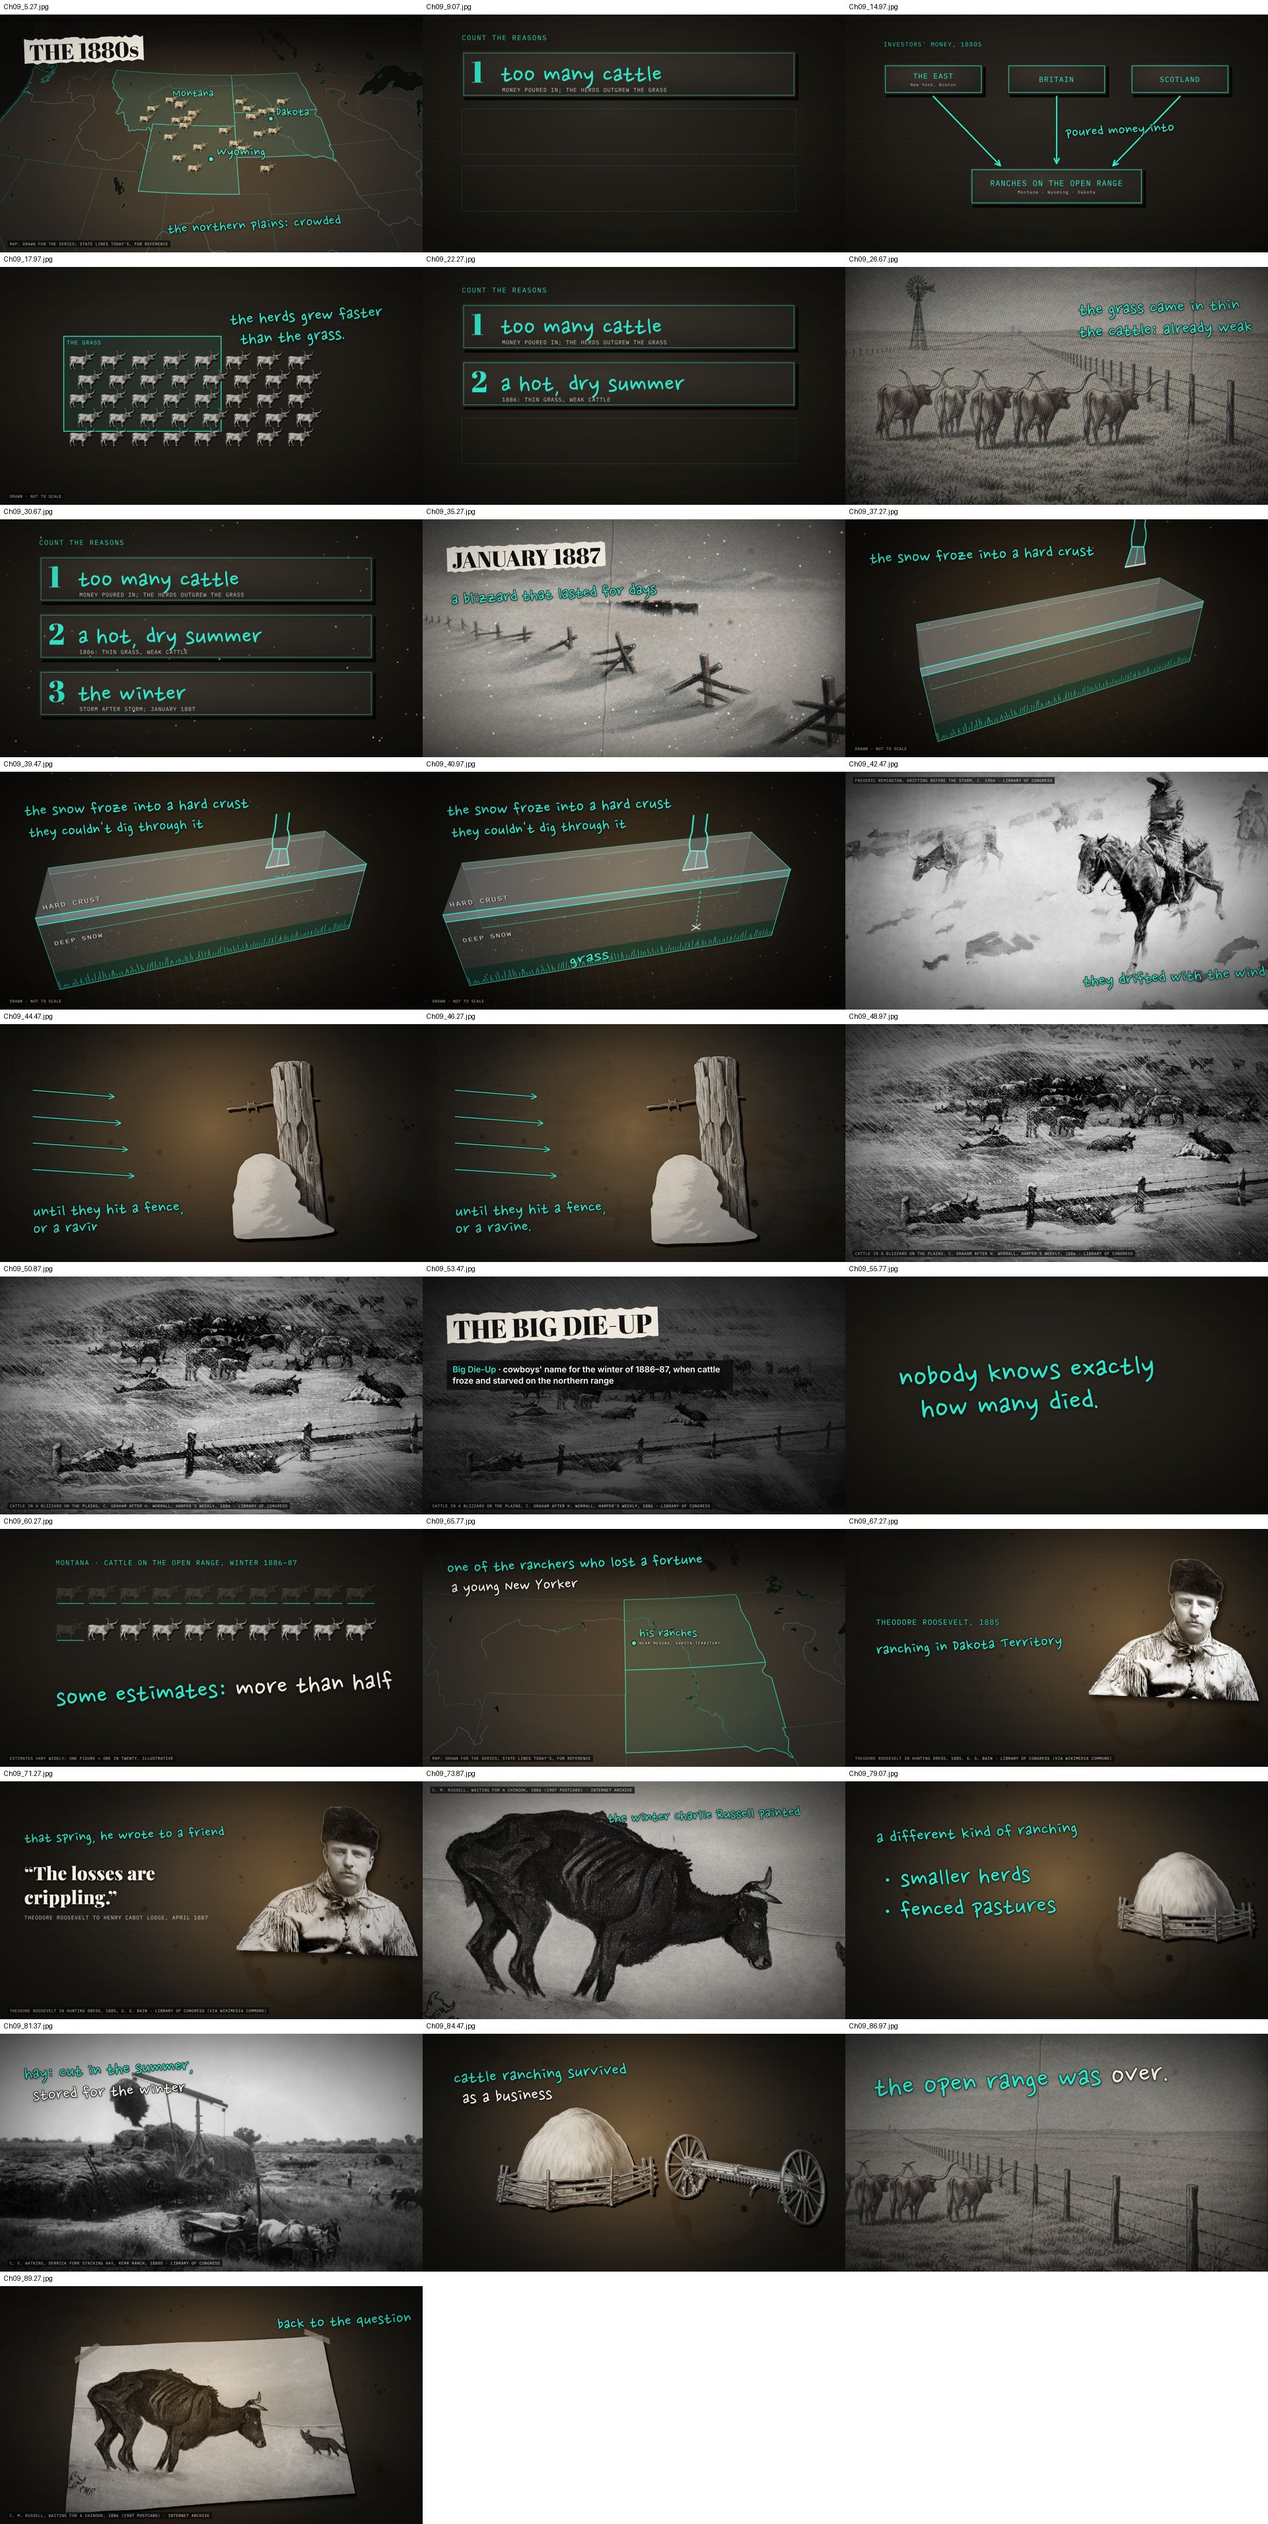
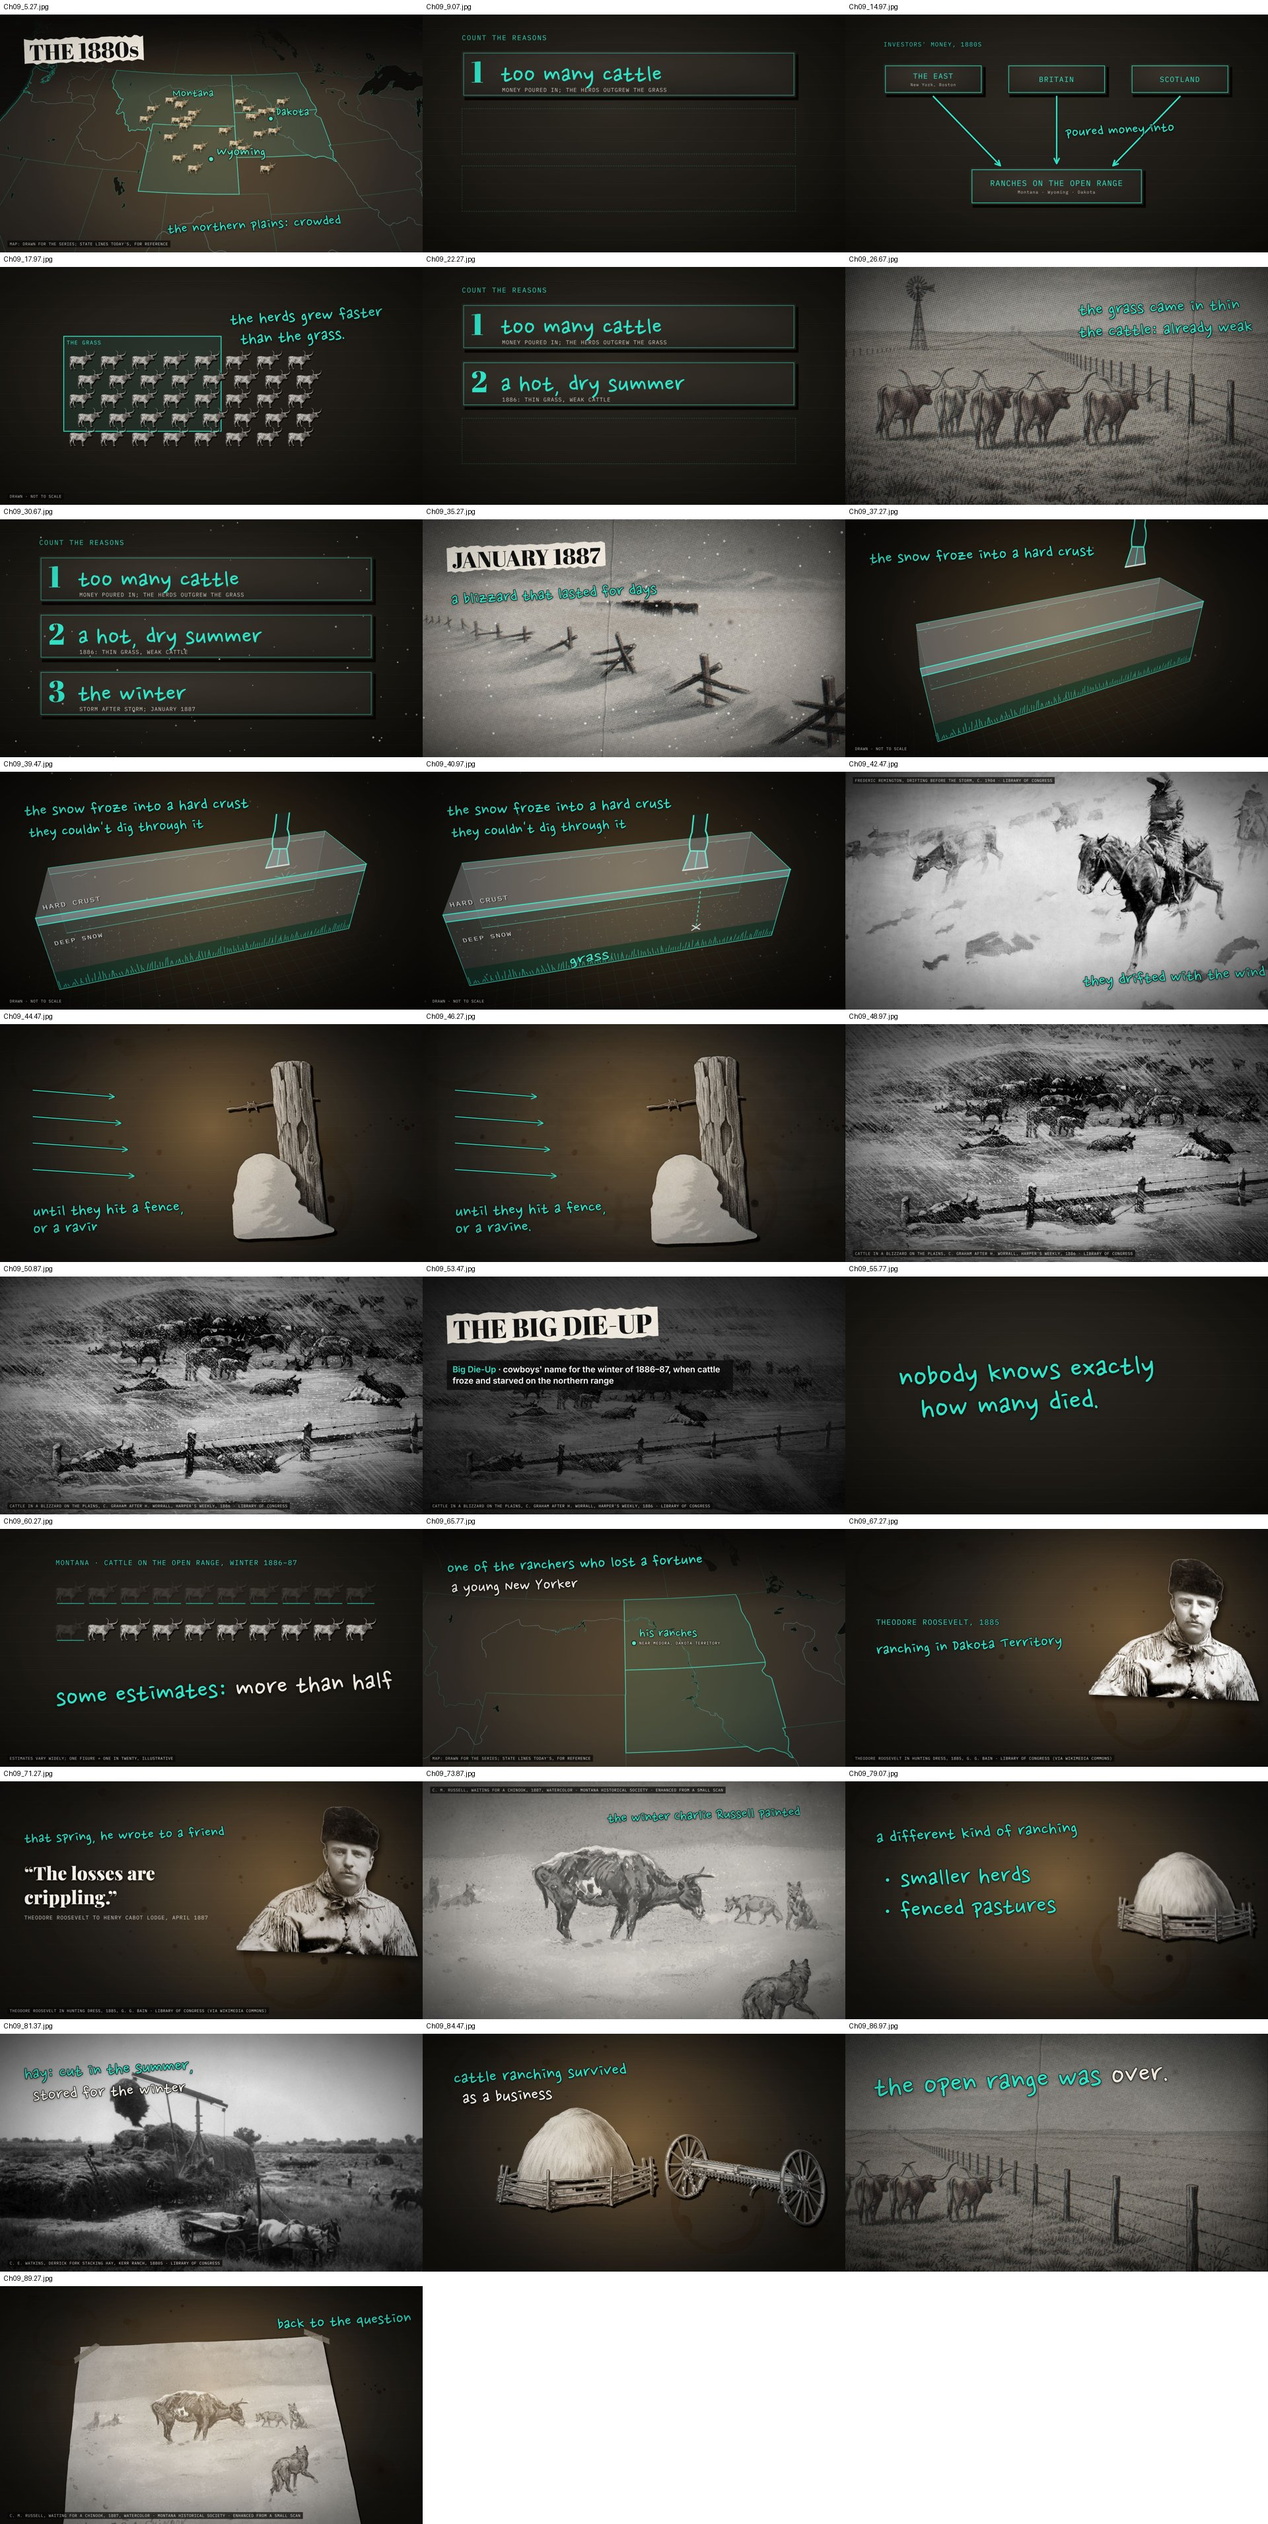
Ep 2: ch01 on the restored 1887 original (five wolves looped on 'wolves', hip push retuned) (checkpoint)
Claude-Session: https://claude.ai/code/session_01JXLXPAtDHdTb8v1nek5PYh

Changed region(s): [[0.3125, 0.7165, 0.6875, 0.8099], [0.0312, 0.9346, 0.2812, 1.0]]

diff --git a/projects/American_West/ep2/src/ch/Ch01.tsx b/projects/American_West/ep2/src/ch/Ch01.tsx
@@ -31,22 +31,31 @@ const END = Math.ceil(N.duration * 30) + 40;
 export const CH01_FRAMES = END + INTRO_FRAMES + TITLE_FRAMES;
 
 /**
- * THE PAINTING, in one place so it can be swapped. Every painting shot reads from P: its file, size, tag, steer mask, and the
+ * THE PAINTING, in one place so it can be swapped. Every painting shot reads from P: its file, size, tag, steer mask, look, and the
  * steer / head / hip / wolves / sky as fractions of the picture (x, y in 0..1), so the cameras follow the composition.
- * Now: Russell's 1907 repainting (from a postcard; one coyote, no lettering). Planned: the 1886–87 original (several wolves at
- * upper left, right and lower right; Russell's lettering), once a usable scan is in; set P = ORIGINAL_1887 and give it a mask.
+ * Now: Russell's 1887 original (Montana Historical Society), enlarged from a small scan (user-approved). Its small caption lettering
+ * under the title was guessed by the enlargement, so no shot zooms on the bottom strip (y > 0.88). The 1907 repainting is kept below.
  */
-type Painting = {src: string; size: [number, number]; tag: string; mask?: MaskRef; steer: Pt; head: Pt; hip: Pt; wolves: Pt[]; sky: Pt};
 type Pt = [number, number];
+type Painting = {src: string; size: [number, number]; tag: string; mask?: MaskRef; steer: Pt; head: Pt; hip: Pt; wolves: Pt[]; sky: Pt;
+  /** B&W treatment, coral strength, how much the steer is lifted under its mask, the steer close-up (fraction of the width shown),
+   *  the hip push (from, to) and loop radius (fraction of the width), and the wolf for the cut-in. */
+  bw: string; tint: number; lift: number; steerFrac: number; hipFrac: [number, number]; hipR: number; heroWolf: number};
 const REPAINT_1907: Painting = {
   src: 'img/ch01/b_chinook_painting.jpg', size: [4000, 2468], tag: 'C. M. Russell, Waiting for a Chinook (his 1907 version, on a postcard) · Internet Archive',
   mask: M1.steer, steer: [0.42, 0.5], head: [0.7, 0.62], hip: [0.118, 0.29], wolves: [[0.86, 0.668], [0.99, 0.656]], sky: [0.66, 0.36],
+  bw: 'grayscale(1) sepia(0.12) contrast(1.15) brightness(0.98)', tint: 0.26, lift: 0.55, steerFrac: 0.8, hipFrac: [0.5, 0.33], hipR: 0.045, heroWolf: 0,
 };
 export const ORIGINAL_1887: Painting = {
-  src: 'img/ch01/waiting_for_a_chinook_original_lowres.jpg', size: [406, 289], tag: 'C. M. Russell, Waiting for a Chinook, 1886–87, watercolor · Montana Historical Society via Wikimedia Commons',
-  steer: [0.47, 0.42], head: [0.61, 0.4], hip: [0.34, 0.35], wolves: [[0.11, 0.43], [0.17, 0.43], [0.73, 0.47], [0.815, 0.47], [0.78, 0.71]], sky: [0.5, 0.14],
+  src: 'img/ch01/chinook_1887_restored.jpg', size: [4000, 2847],
+  tag: 'C. M. Russell, Waiting for a Chinook, 1887, watercolor · Montana Historical Society · enhanced from a small scan',
+  mask: M1.steer1887, steer: [0.46, 0.43], head: [0.62, 0.43], hip: [0.32, 0.37],
+  // two far upper left, two right of the steer's head, one lower right trotting toward us
+  wolves: [[0.075, 0.43], [0.145, 0.43], [0.74, 0.47], [0.835, 0.47], [0.79, 0.7]], sky: [0.5, 0.13],
+  bw: 'grayscale(1) sepia(0.12) contrast(1.32) brightness(0.92)', tint: 0.34, lift: 0.18, steerFrac: 0.6, hipFrac: [0.42, 0.24], hipR: 0.034, heroWolf: 4,
 };
-const P: Painting = REPAINT_1907;
+const P: Painting = ORIGINAL_1887;
+void REPAINT_1907;
 const PAINT = P.src;
 const PSZ = P.size;
 const PTAG = P.tag;
@@ -57,15 +66,15 @@ const zw = (frac: number) => 1920 / (PSZ[0] * frac);
 /** Camera key on the painting: [frame, point, fraction of the width shown]. */
 const pk = (f: number, p: Pt, frac: number): [number, number, number, number] => [f, ...px(p), zw(frac)];
 const MID: Pt = [0.5, 0.5];
-/** The coral on the steer stays light (it is nearly black in B&W): the trace carries the subject. */
-const STEER_TINT = 0.26;
+/** The coral on the steer stays light: the trace carries the subject. */
+const STEER_TINT = P.tint;
 const RUSS = 'img/ch01/b_russell_c1900.jpg';
 const RSZ: [number, number] = [1920, 2673];
 const RTAG = 'Charles M. Russell, c. 1900, photographer unknown · Wikimedia Commons';
 const COWTOWN = 'img/props/L2_cowtown.jpg';
 const LSZ: [number, number] = [1920, 1080];
 /** The painting in black and white, a little warm (the series' archive look). */
-const PBW = 'grayscale(1) sepia(0.12) contrast(1.15) brightness(0.98)';
+const PBW = P.bw;
 const MAPTAG = 'Map: Natural Earth outlines (today\'s state lines for reference)';
 
 /**
@@ -78,7 +87,7 @@ const SteerLift: React.FC<{S: (x: number, y: number) => [number, number]; s: num
   const [l, t] = S(0, 0);
   const m = P.mask.alpha;
   return <div style={{position: 'absolute', left: l, top: t, width: PSZ[0] * s, height: PSZ[1] * s, background: '#8a8a8a', mixBlendMode: 'screen',
-    opacity: 0.55 * interpolate(g, [a, a + 5], [0, 1], clamp), WebkitMaskImage: `url(${staticFile(m)})`, WebkitMaskSize: '100% 100%', maskImage: `url(${staticFile(m)})`, maskSize: '100% 100%'} as React.CSSProperties} />;
+    opacity: P.lift * interpolate(g, [a, a + 5], [0, 1], clamp), WebkitMaskImage: `url(${staticFile(m)})`, WebkitMaskSize: '100% 100%', maskImage: `url(${staticFile(m)})`, maskSize: '100% 100%'} as React.CSSProperties} />;
 };
 
 /** The painting on the desk as a torn print. */
@@ -205,7 +214,7 @@ const LookSteer: React.FC = () => {
   const a = at('Look at it') - 1;
   const b = at('Look at the hip') - 1;
   return (
-    <Pic src={PAINT} size={PSZ} k={[pk(a, MID, 0.96), pk(b, P.steer, 0.8)]} filter={PBW} tag={PTAG} tagY={1026} mask={P.mask} tintAt={at('One steer')} tint={STEER_TINT} traceAt={at('One steer') + 2}>
+    <Pic src={PAINT} size={PSZ} k={[pk(a, MID, 0.96), pk(b, P.steer, P.steerFrac)]} filter={PBW} tag={PTAG} tagY={1026} mask={P.mask} tintAt={at('One steer')} tint={STEER_TINT} traceAt={at('One steer') + 2}>
     {(S, sc) => <><SteerLift S={S} s={sc} at={at('One steer')} /><Note text="one steer, alone" x={1240} y={180} size={60} rot={-3} at={at('alone') - 2} /></>}
     </Pic>
   );
@@ -216,10 +225,10 @@ const Hips: React.FC = () => {
   const a = at('Look at the hip') - 1;
   const b = at('Now look behind') - 1;
   return (
-    <Pic src={PAINT} size={PSZ} k={[pk(a, [P.hip[0] + 0.1, P.hip[1] + 0.08], 0.5), pk(b, P.hip, 0.33)]} filter={PBW} mask={P.mask} tintAt={-99} tint={STEER_TINT * 0.8}>
+    <Pic src={PAINT} size={PSZ} k={[pk(a, [P.hip[0] + 0.1, P.hip[1] + 0.06], P.hipFrac[0]), pk(b, P.hip, P.hipFrac[1])]} filter={PBW} mask={P.mask} tintAt={-99} tint={STEER_TINT * 0.8}>
       {(S, sc) => {
         const [hx, hy] = S(...px(P.hip));
-        const r = PSZ[0] * sc * 0.045;
+        const r = PSZ[0] * sc * P.hipR;
         return <>
           <SteerLift S={S} s={sc} at={-99} />
           <Loop cx={hx} cy={hy} rx={r} ry={r * 0.73} at={at('hip bones') - 2} seed={7} tilt={-8} width={7} />
@@ -242,15 +251,15 @@ const Wolves: React.FC = () => {
   const w = at('wolves');
   const b = at('Russell called') - 1;
   return (
-    <Pic src={PAINT} size={PSZ} k={[pk(a, P.head, 0.6), pk(w - 4, WOLF_C, WOLF_FRAC), pk(b, WOLF_C, WOLF_FRAC * 0.96)]} filter={PBW} tag={PTAG} tagY={1026}>
+    <Pic src={PAINT} size={PSZ} k={[pk(a, P.head, 0.6), pk(w - 4, WOLF_C, WOLF_FRAC), pk(at('waiting') - 4, WOLF_C, WOLF_FRAC * 0.97), pk(b, P.wolves[P.heroWolf], 0.4)]} filter={PBW} tag={PTAG} tagY={1026}>
       {(S, sc) => <>
         {P.wolves.map((p, i) => {
           const [x, y] = S(...px(p));
           const r = PSZ[0] * sc * 0.05;
           return <Loop key={i} cx={Math.min(1850, Math.max(70, x))} cy={y} rx={r} ry={r * 0.75} at={w - 2 + i * 3} seed={11 + i} tilt={i % 2 ? 6 : -6} width={7} />;
         })}
-        <Note text="wolves" x={1240} y={120} size={78} rot={-4} at={w} />
-        <Note text="waiting" x={1300} y={880} size={62} rot={-3} at={at('waiting') - 2} color="#ffffff" />
+        <Note text="wolves" x={820} y={90} size={78} rot={-4} at={w} />
+        <Note text="waiting" x={140} y={860} size={66} rot={-3} at={at('waiting') - 2} color="#ffffff" />
       </>}
     </Pic>
   );
@@ -391,7 +400,7 @@ const QuestionDesk: React.FC<{second?: boolean}> = ({second}) => {
 const BackToSteer: React.FC = () => {
   const a = at("And we'll") - 1;
   return (
-    <Pic src={PAINT} size={PSZ} k={[pk(a, P.steer, 0.8), pk(a + 60, [P.steer[0] - 0.002, P.steer[1]], 0.795)]} filter={PBW} tag={PTAG} tagY={24} mask={P.mask} tintAt={a} tint={STEER_TINT} traceAt={a + 3}>
+    <Pic src={PAINT} size={PSZ} k={[pk(a, P.steer, P.steerFrac), pk(a + 60, [P.steer[0] - 0.002, P.steer[1]], P.steerFrac * 0.99)]} filter={PBW} tag={PTAG} tagY={24} mask={P.mask} tintAt={a} tint={STEER_TINT} traceAt={a + 3}>
       {(S, sc) => <><SteerLift S={S} s={sc} at={a} /><Note text="we'll come back to him" x={1180} y={860} size={58} rot={-3} at={at('come back') - 2} /></>}
     </Pic>
   );

diff --git a/projects/American_West/ep2/src/ch/Ch10.tsx b/projects/American_West/ep2/src/ch/Ch10.tsx
@@ -30,7 +30,7 @@ import {clamp} from '../lib/anim';
 import {boxOf, JF, Note, Tag, useGFrame, useHand, usePal} from '../kit/Kit';
 import {DarkPaper} from '../kit/common';
 import {ChapterShell, chapterFrames, FADE, LEAD, makeTimeline, TAIL, type Narration} from '../kit/shell';
-import {keys, Lift, Mono, PhotoCam, ScrimTag, SHADOW, SlapTitle, Tape, tornPoly, TornPrint, useDrop, zkeys} from '../kit/west';
+import {keys, Lift, Mono, PhotoCam, ScrimTag, SHADOW, SlapTitle, SoftTint, Tape, tornPoly, TornPrint, useDrop, zkeys} from '../kit/west';
 import {DeskCam, Float, Label, Prop} from '../kit/ch04_extra';
 import {DeskShot, Hand, Print, Sounds, WShots} from '../kit/ch07_extra';
 import {Bust, PROP} from '../kit/ch07_10_extra';
@@ -302,7 +302,9 @@ const Steer: React.FC = () => {
   return (
     <AbsoluteFill>
       <PhotoCam src={I.paint} size={Z.paint} cx={keys(f, [[a, 1960], [b, 1950]])} cy={keys(f, [[a, 1320], [b, 1200]])} s={zkeys(f, [[a, 0.5], [b, 0.7]])} bw={PBW}
-        mask={M10.c1_steer_1887} traceAt={a + 6} />
+        mask={M10.c1_steer_1887} traceAt={a + 6}>
+        {(_S, p) => <SoftTint mask={M10.c1_steer_1887.alpha} place={p} size={Z.paint} strength={0.4 * interpolate(f, [a + 4, a + 12], [0, 1], clamp)} />}
+      </PhotoCam>
       <ScrimTag text={TAG.paint} />
     </AbsoluteFill>
   );

diff --git a/projects/American_West/ep2/src/ch/Ch09.tsx b/projects/American_West/ep2/src/ch/Ch09.tsx
@@ -572,9 +572,9 @@ const BackToQ: React.FC = () => {
   return (
     <AbsoluteFill>
       <DeskCam k={[[a, 24, 0.86, 0, 0, -2], [END, 18, 0.92, 0, 20, 0]]}>
-        <Lift x={260} y={170} w={1350} hgt={1350 * (Z.paint[1] / Z.paint[0])} h={8} at={a + 2} rot={-2} seed={97}>
-          <TornPrint src={I.paint} size={Z.paint} x={0} y={0} w={1350} at={-99} seed={98} real grey shadow={5} filter={PBW}
-            tapes={[{x: -40, y: 20, w: 160, rot: -36}, {x: 1230, y: -8, w: 160, rot: 28}]} />
+        <Lift x={330} y={110} w={1250} hgt={1250 * (Z.paint[1] / Z.paint[0])} h={8} at={a + 2} rot={-2} seed={97}>
+          <TornPrint src={I.paint} size={Z.paint} x={0} y={0} w={1250} at={-99} seed={98} real grey shadow={5} filter={PBW}
+            tapes={[{x: -40, y: 20, w: 160, rot: -36}, {x: 1130, y: -8, w: 160, rot: 28}]} />
         </Lift>
       </DeskCam>
       <Note text="back to the question" x={1260} y={110} size={54} rot={-3} at={at('question') - 4} />

diff --git a/projects/American_West/ep2/src/masks_ch01.ts b/projects/American_West/ep2/src/masks_ch01.ts
@@ -1,6 +1,7 @@
 // Chapter 1 masks (jobs in tools/mask_jobs/ch01.py; the Russell hat added by review/ch01_mask_russell_fix.py).
 import {maskRef} from './kit/maskref';
 import steer from '../public/img/masks/ch01_steer.json';
+import steer1887 from '../public/img/masks/c1_steer_1887.json';
 import russell from '../public/img/masks/ch01_russell.json';
 import letter from '../public/img/masks/p1_letter.json';
 import saddle from '../public/img/masks/p3_saddle.json';
@@ -8,6 +9,7 @@ import longhorn from '../public/img/masks/p2_longhorn.json';
 
 export const M1 = {
   steer: maskRef('ch01_steer', steer),
+  steer1887: maskRef('c1_steer_1887', steer1887),
   russell: maskRef('ch01_russell', russell),
   letter: maskRef('p1_letter', letter),
   longhorn: maskRef('p2_longhorn', longhorn),

diff --git a/projects/American_West/ep2/review/build_ch01.md b/projects/American_West/ep2/review/build_ch01.md
@@ -53,10 +53,8 @@ the card. Gentle SFX as in Ep 1 (whoosh/whip_soft on shots, marker_tick 4 frames
 "come through?" and the LAST OF THE FIVE THOUSAND tape's overshoot, Ch03 the San Antonio label in the Indian Territory shot); stills
 re-rendered after the kit's handwriting/MPin-label fixes and the sheet rebuilt.
 
-## One more rough spot
-- The steer's coral tint reads quite red because the steer is nearly black in B&W; its fur and ribs stay visible (see-through),
-  but if it reads as a red silhouette on a big screen, lower `tint` in `LookSteer`/`LastOf`/`BackToSteer` (now 0.42) or lift
-  the steer's brightness under the mask.
+## One more rough spot (resolved)
+- The early red-silhouette tint is fixed: see the Oct 27 sections (tint and lift now live in `P`).
 
 ## Coordinator review fixes (Oct 27)
 - Steer tint lowered to 0.26 (`STEER_TINT`), and the steer's own levels are lifted under its mask (`SteerLift`, a masked screen layer), so the
@@ -72,3 +70,14 @@ re-rendered after the kit's handwriting/MPin-label fixes and the sheet rebuilt.
 - Portrait rule (Oct 27): Russell is now a full bust cut-out on the desk (`Bust` in `src/kit/ch02_extra.tsx`: no print, no
   photo background, soft contact shadow, coral see-through tint + teal trace as the beat's subject). Hat outline re-traced on a
   brightened grid of the scan (`review/ch01_mask_russell_fix.py`); check: `review/ch01-03_mask_closeup.jpg`.
+
+## Painting swap (Oct 27): the 1887 original
+`P = ORIGINAL_1887`: `img/ch01/chinook_1887_restored.jpg` (4000 × 2847, enlarged from the small scan, user-approved), mask
+`c1_steer_1887` (registered as `M1.steer1887`; checked: clean edge, horns and legs in). Points re-measured on the new file on a 10 %
+grid: steer (0.46, 0.43), head (0.62, 0.43), hip (0.32, 0.37), wolves (0.075, 0.43), (0.145, 0.43), (0.74, 0.47), (0.835, 0.47),
+and the trotting one (0.79, 0.70). Per-painting look is now in `P` too: a harder B&W (the watercolour is pale), coral 0.34 with a
+small level lift (0.18), steer close-up at 60 % of the width, the hip push 42 % → 24 % with a smaller loop.
+"Those are wolves": the camera pulls back to the whole picture as the loops land on all five on "wolves", then pushes into the
+trotting wolf (the cut-in) on "They're waiting". No shot zooms on the bottom strip (the small caption under the title was guessed by
+the enlargement); it is only ever seen whole-picture or on the desk print, and the LAST OF THE FIVE THOUSAND tape covers it there.
+The 1907 repainting stays defined as `REPAINT_1907` (unused).
